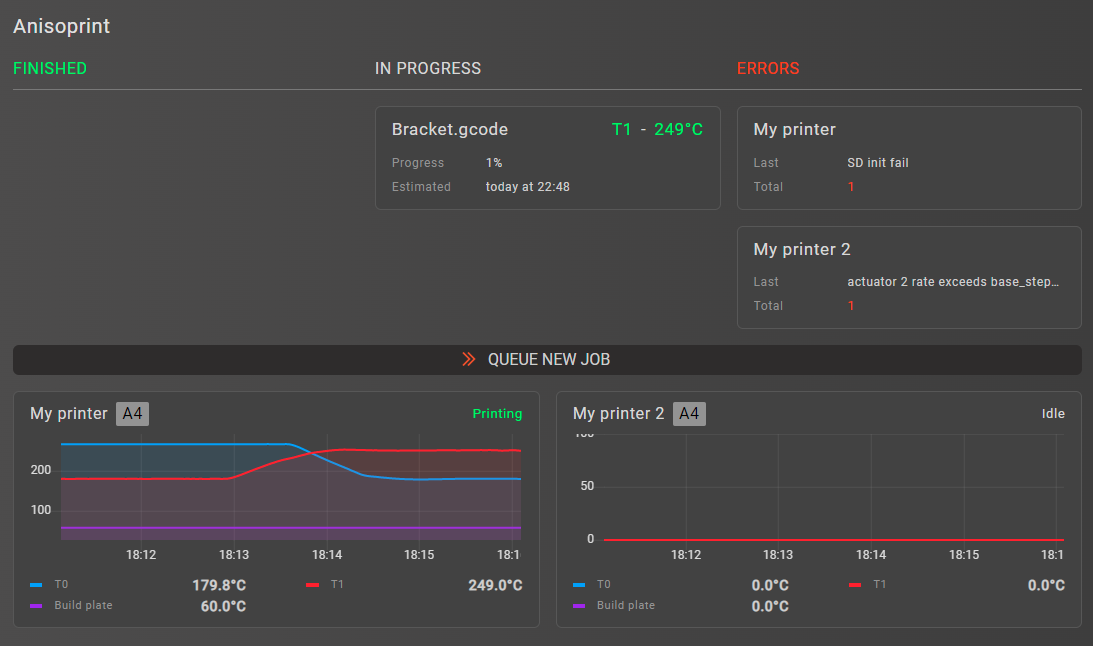
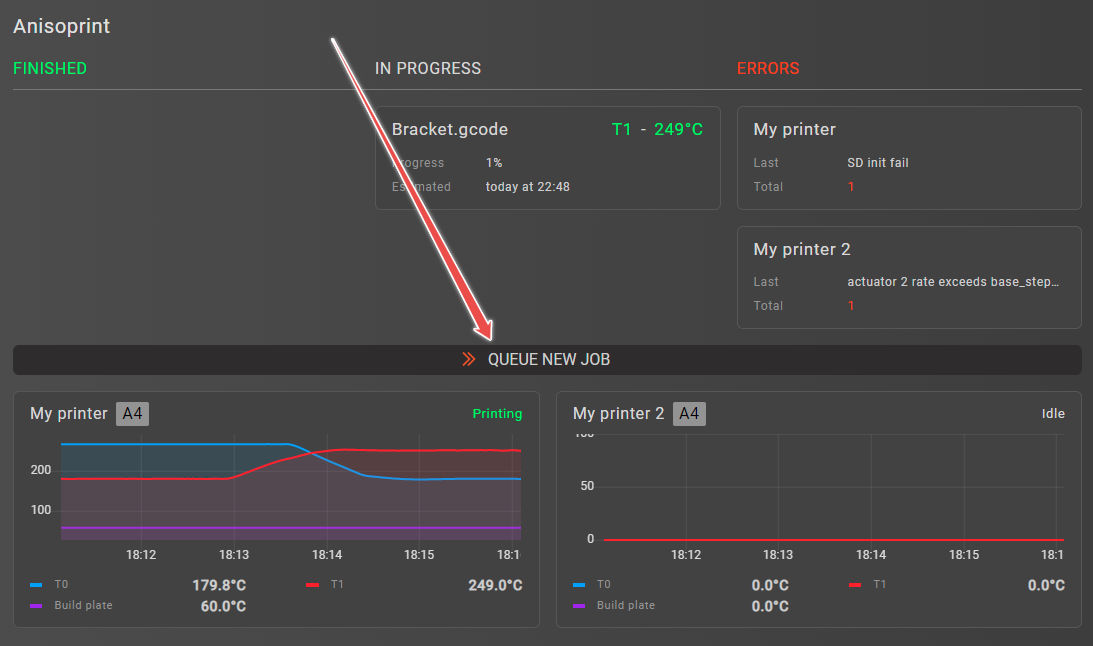
[AC-338] Add annotations to GUI Overview images

diff --git a/docs/aura-connect/gui/index.md b/docs/aura-connect/gui/index.md
@@ -60,7 +60,11 @@ The dashboard section is often used as a quick summary of your company's statist
 
 ![Dashboard](./media/dashboard/dashboard.png)
 
-Dashboard is split into three main parts, listed below
+Dashboard is split into three main parts, listed below:
+
+1. [Printer summary](#printer-summary)
+2. [Printer telemetry summary](#printer-telemetry-summary)
+3. [Company statistics summary](#company-statistics-summary)
 
 ### Printer summary
 
@@ -123,7 +127,11 @@ The company section contains information about all the users in the company. If 
 
 ![Company](./media/company/company.png)
 
-This section is split into three main parts listed below
+This section is split into three main parts listed below:
+
+1. [Info panel](#info-panel)
+2. [Users panel](#users-panel)
+3. [Admins panel](#admins-panel)
 
 ### Info panel
 
@@ -190,6 +198,11 @@ Navigate to the [Library](#library) screen by clicking the **'Library'** button 
 The library section contains all the files uploaded to Aura.Connect by your company. You can also group your files into categories, upload new files, delete uploaded files.
 
 ![Library](./media/library/library.png)
+
+You will two panels in this section:
+
+1. [Categories panel](#categories-panel)
+2. [Files panel](#files-panel)
 
 ### Categories panel
 
@@ -292,7 +305,7 @@ Each [Printer card](#printer-cards) contains the following information:
 1. Printer model
 2. Printer name
 3. Status of the printer
-4. Error count on the printer
+4. Unacknowledged errors of the printer
 
 ::: tip
 Hovering the error count will show the last error sent by printer
@@ -305,6 +318,12 @@ Click on one of the [Printer cards](#printer-cards) in the list to inspect the p
 ![Printer inspector](./media/machines/printer-inspector.png)
 
 You will see a panel, that contains all of the information and interactive controls related to a printer. These controls include:
+
+1. [Current jobs](#current-jobs-informational--interactive-control)
+2. [Archive jobs](#archive-jobs-informational-control)
+3. [Telemetry](#telemetry-informational-control)
+4. [Error log](#error-log-informational-control)
+5. [Terminal](#terminal-interactive-control)
 
 #### Current jobs (informational & interactive control)
 
@@ -563,6 +582,14 @@ Navigate to the [Profile](#profile) screen by clicking the **'Profile'** button 
 The profile section contains all the information about the user, their jobs, stats, archives, active devices. You can also change your password and profile information
 
 ![Profile](./media/profile/profile.png)
+
+Below is a list of all panels available on this section:
+
+1. [Profile information](#profile-information-panel)
+2. [Profile statistics](#profile-statistics-panel)
+3. [Active devices](#active-devices-panel)
+4. [Profile jobs](#profile-jobs-panel)
+5. [Profile archive jobs](#profile-archives-panel)
 
 ### Profile information panel
 
